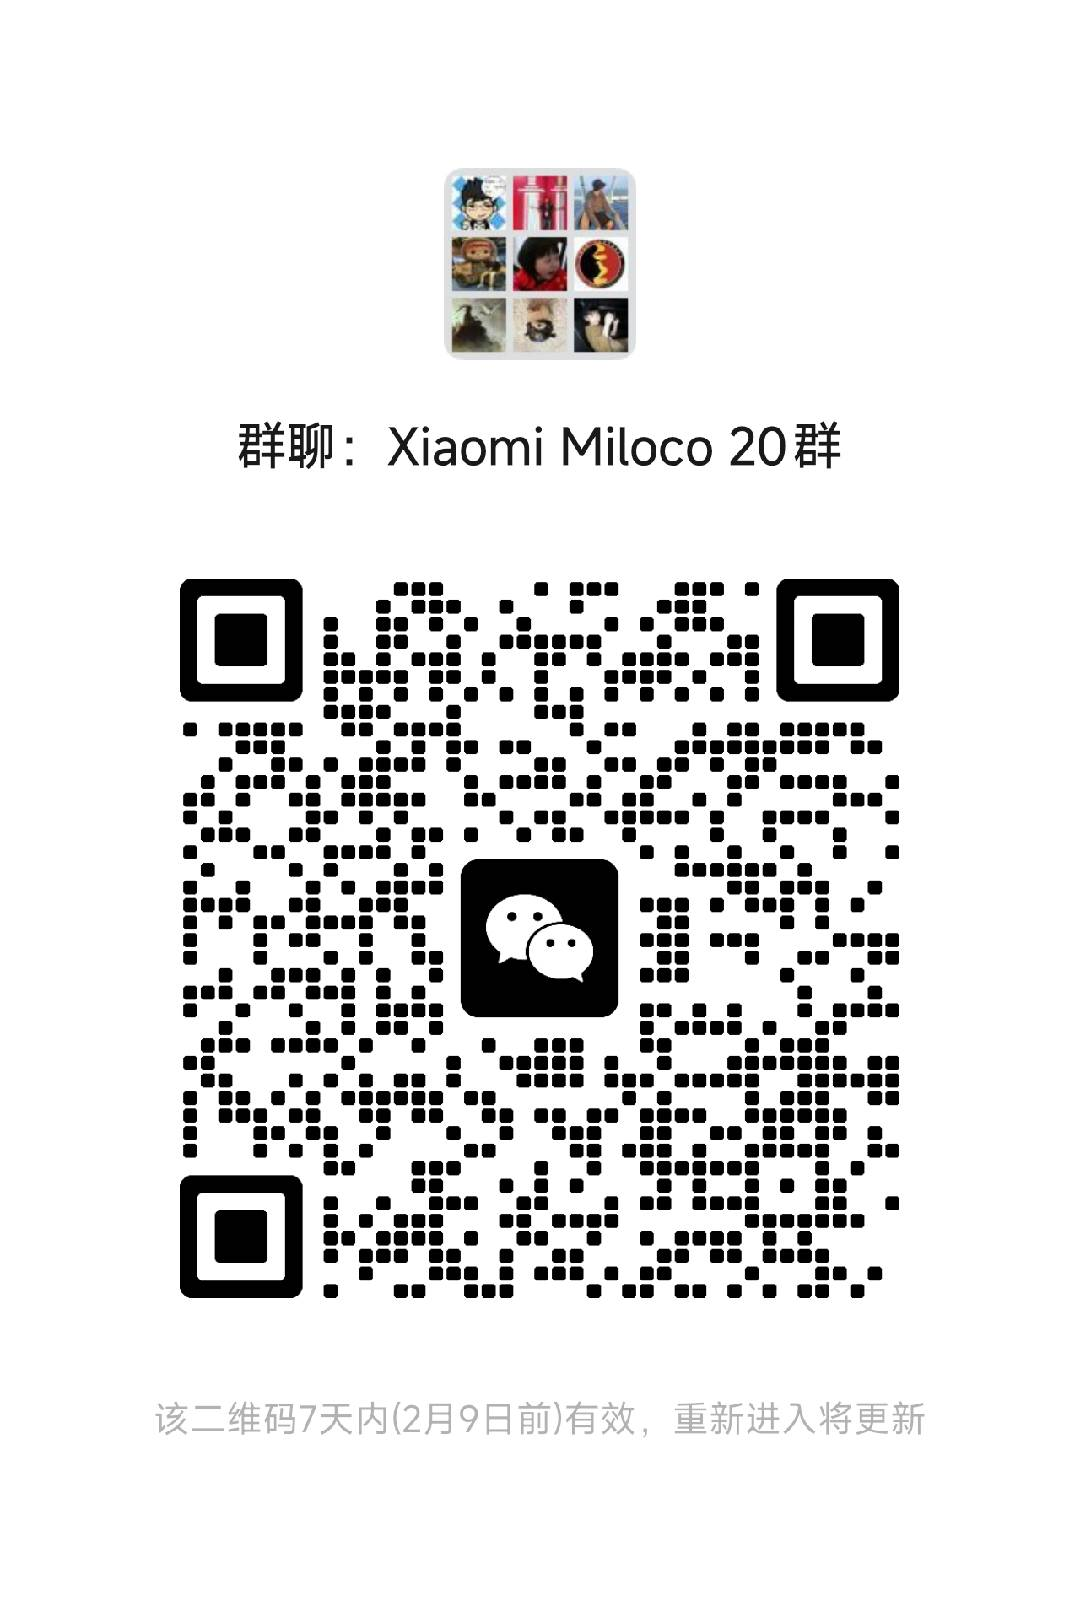
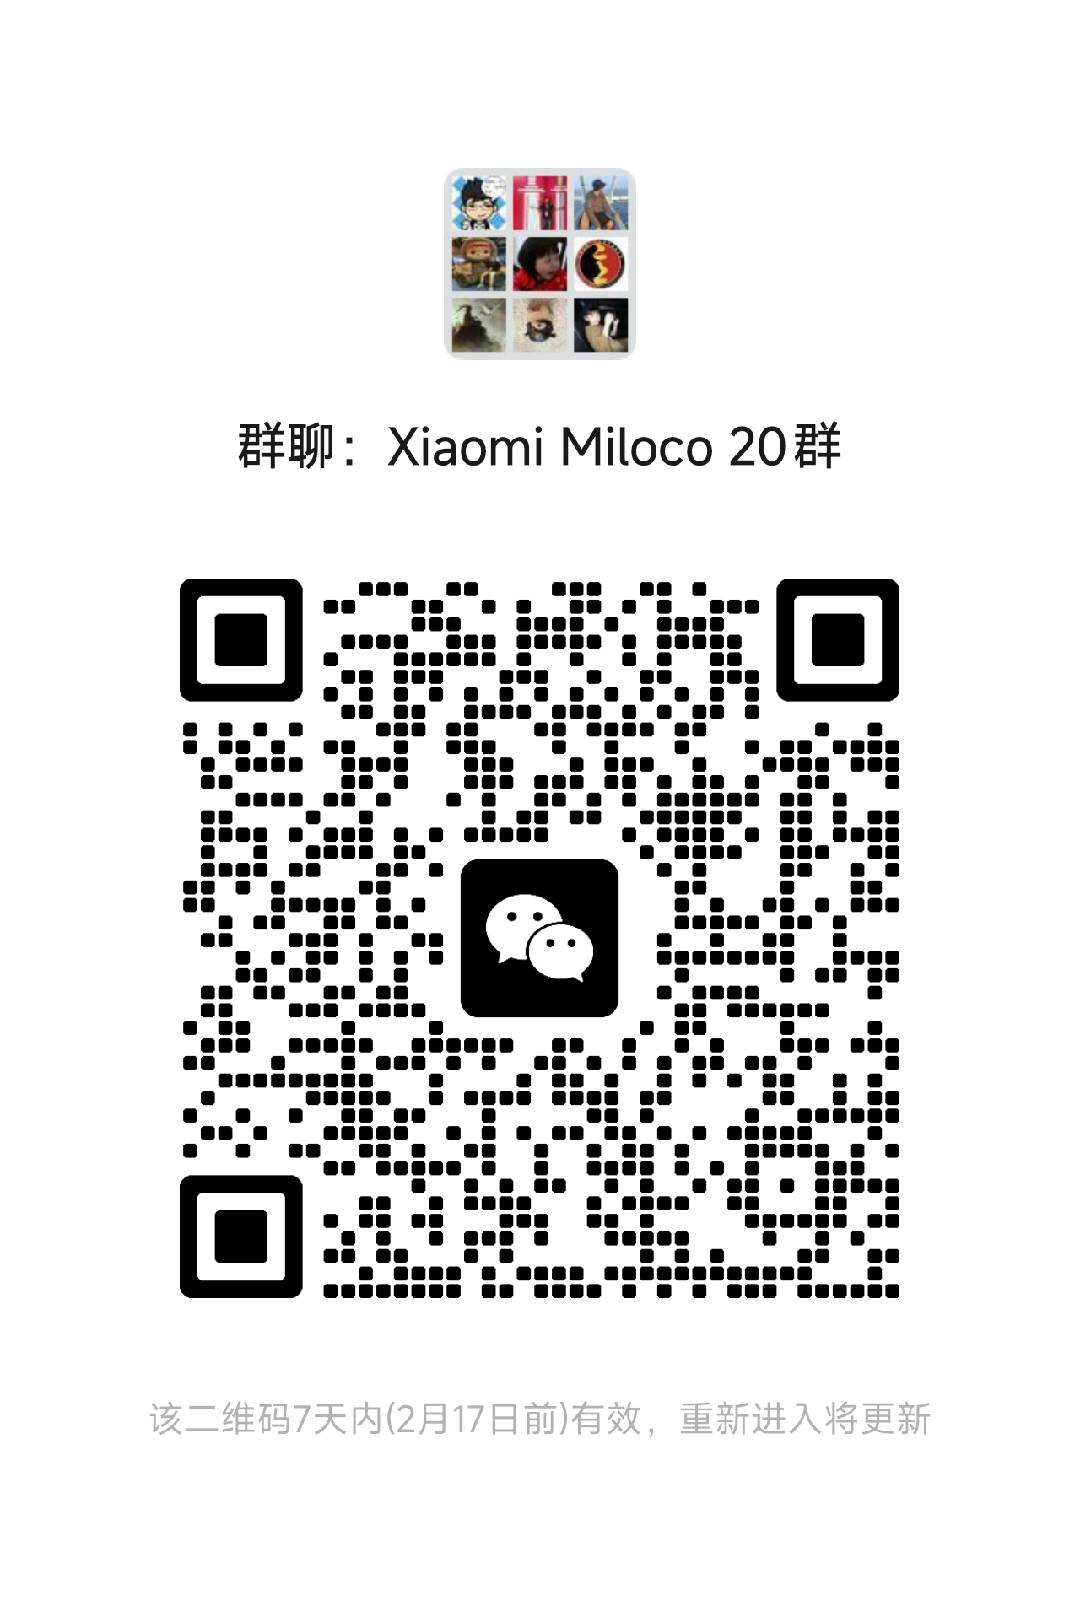
feat: Add New Year greetings and GIF to READMEs, and update `miloco_wechat_latest.png`.

Changed region(s): [[0.1528, 0.3414, 0.8556, 0.807], [0.2139, 0.869, 0.8556, 0.9001], [0.1222, 0.869, 0.1833, 0.9001]]

diff --git a/README.md b/README.md
@@ -8,6 +8,14 @@ English | [简体中文](README.zh_Hans.md)
 
 </div>
 
+
+<div align="center">
+<h1><img src="https://raw.githubusercontent.com/Tarikul-Islam-Anik/Animated-Fluent-Emojis/master/Emojis/Activities/Firecracker.png" alt="🧨" width="30" /> <font color="red">🎉 Happy New Year! 新年快乐！🎉</font> <img src="https://raw.githubusercontent.com/Tarikul-Islam-Anik/Animated-Fluent-Emojis/master/Emojis/Activities/Firecracker.png" alt="🧨" width="30" /></h1>
+
+<img src="assets/images/Happy_New_Year.gif" width="50%" />
+
+</div>
+
 ## News
 
 - [2025-11] Xiaomi Miloco Framework Open Source

diff --git a/README.zh_Hans.md b/README.zh_Hans.md
@@ -8,6 +8,13 @@
 
 </div>
 
+<div align="center">
+<h1><img src="https://raw.githubusercontent.com/Tarikul-Islam-Anik/Animated-Fluent-Emojis/master/Emojis/Activities/Firecracker.png" alt="🧨" width="30" /> <font color="red">🎉 Happy New Year! 新年快乐！🎉</font> <img src="https://raw.githubusercontent.com/Tarikul-Islam-Anik/Animated-Fluent-Emojis/master/Emojis/Activities/Firecracker.png" alt="🧨" width="30" /></h1>
+
+<img src="assets/images/Happy_New_Year.gif" width="50%" />
+
+</div>
+
 ## 最新动态
 
 - [2025-11] Xiaomi Miloco 整体框架开源
